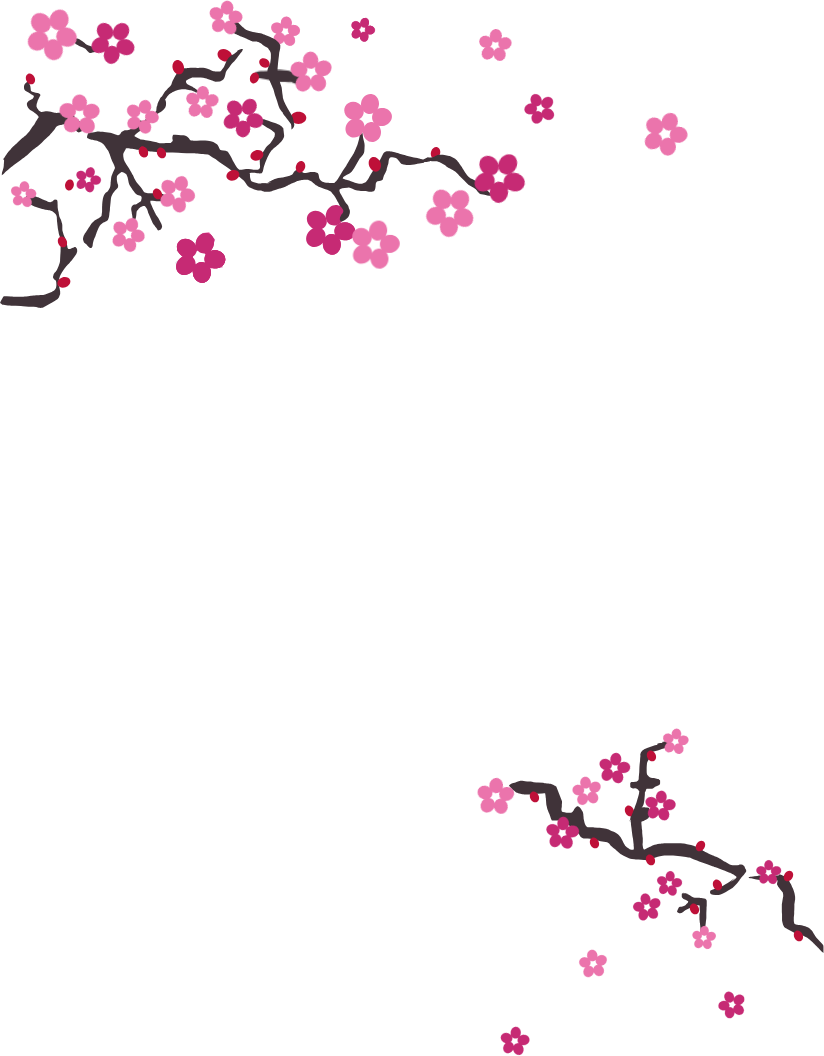
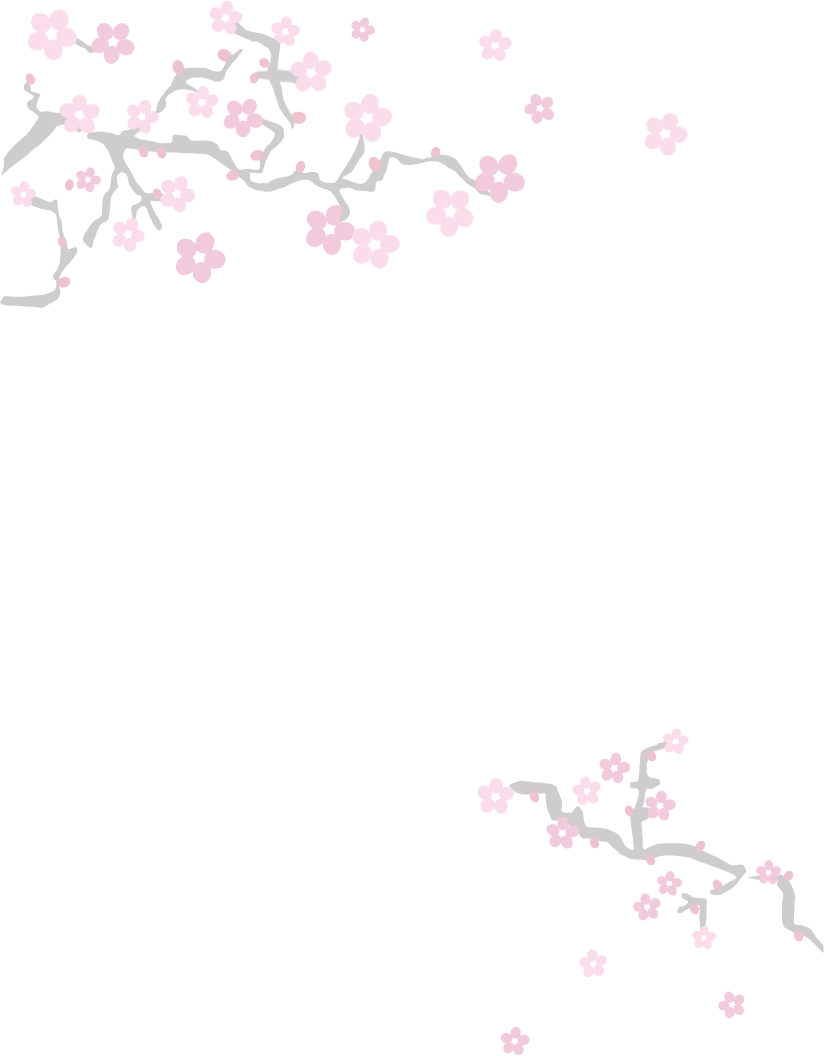
Update 9

diff --git a/src/App.js b/src/App.js
@@ -13,6 +13,11 @@ function App() {
     const [weekTwoCircles, setWeekTwoCircles] = useState([]);
     const [weekTwoSquares, setWeekTwoSquares] = useState([]);
     const [weekTwoTriangles, setWeekTwoTriangles] = useState([]);
+    const [selectedBg, setSelectedBg] = useState(['default']);
+
+    const handleBgChange = (event) => {
+        setSelectedBg(event.target.value);
+    }
 
     const scrollToHabitBuilder = () => {
         const habitBuilderElement = document.querySelector('.habitBuilder');
@@ -34,23 +39,23 @@ function App() {
                 <div className='themes' align='center' width='device-screen-width'>
 
                     <label>
-                    <input type="radio" id="default" name="theme" />
+                    <input type="radio" value="default" name="theme" checked={selectedBg === "default"} onChange={handleBgChange}/>
                     <img src="./No_icon_red.svg.png" className="iconRadio" />
                     </label>
                     <label>
-                    <input type="radio" id="spring" name="theme"/>
+                    <input type="radio" value="spring" name="theme" checked={selectedBg === "spring"} onChange={handleBgChange}/>
                         <img src="./CBIcon.png" className="iconRadio"/>
                     </label>
                     <label>
-                    <input type="radio" id="summer" name="theme"/>
+                    <input type="radio" value="summer" name="theme"/>
                         <img src="./831682.png" className="iconRadio" />
                     </label>
                     <label>
-                    <input type="radio" id="fall" name="theme"/>
+                    <input type="radio" value="fall" name="theme"/>
                         <img src="./leaves-autumn-icon-png.png" className="iconRadio" />
                     </label>
                     <label>
-                    <input type="radio" id="winter" name="theme"/>
+                    <input type="radio" value="winter" name="theme"/>
                         <img src="./2530064.png" className="iconRadio" />
                     </label>
 
@@ -112,7 +117,8 @@ function App() {
                             </div>
                         </div>
                     </div>
-                    <table className='habitPaper'>
+                    <table className='habitPaper' style={{backgroundImage: `url(${getBackgroundImage(selectedBg)})`}}>
+
                         <tr className='legend'>
                             <td align='center'>
                                 <h1>Habit</h1>
@@ -328,6 +334,19 @@ function App() {
         </div>
 
     );
+}
+
+function getBackgroundImage(selectedBg) {
+    switch (selectedBg) {
+        case 'default':
+            return "default";
+
+        case 'spring':
+            return "./Cherry_Blossom_Background.png";
+
+        default:
+            return 'none'; // Default background
+    }
 }
 
 export default App;

diff --git a/src/App.css b/src/App.css
@@ -138,6 +138,7 @@ footer {
     table-layout: fixed;
     border-collapse: collapse;
     margin: auto;
+
 }
 
 .habitPaper input {
